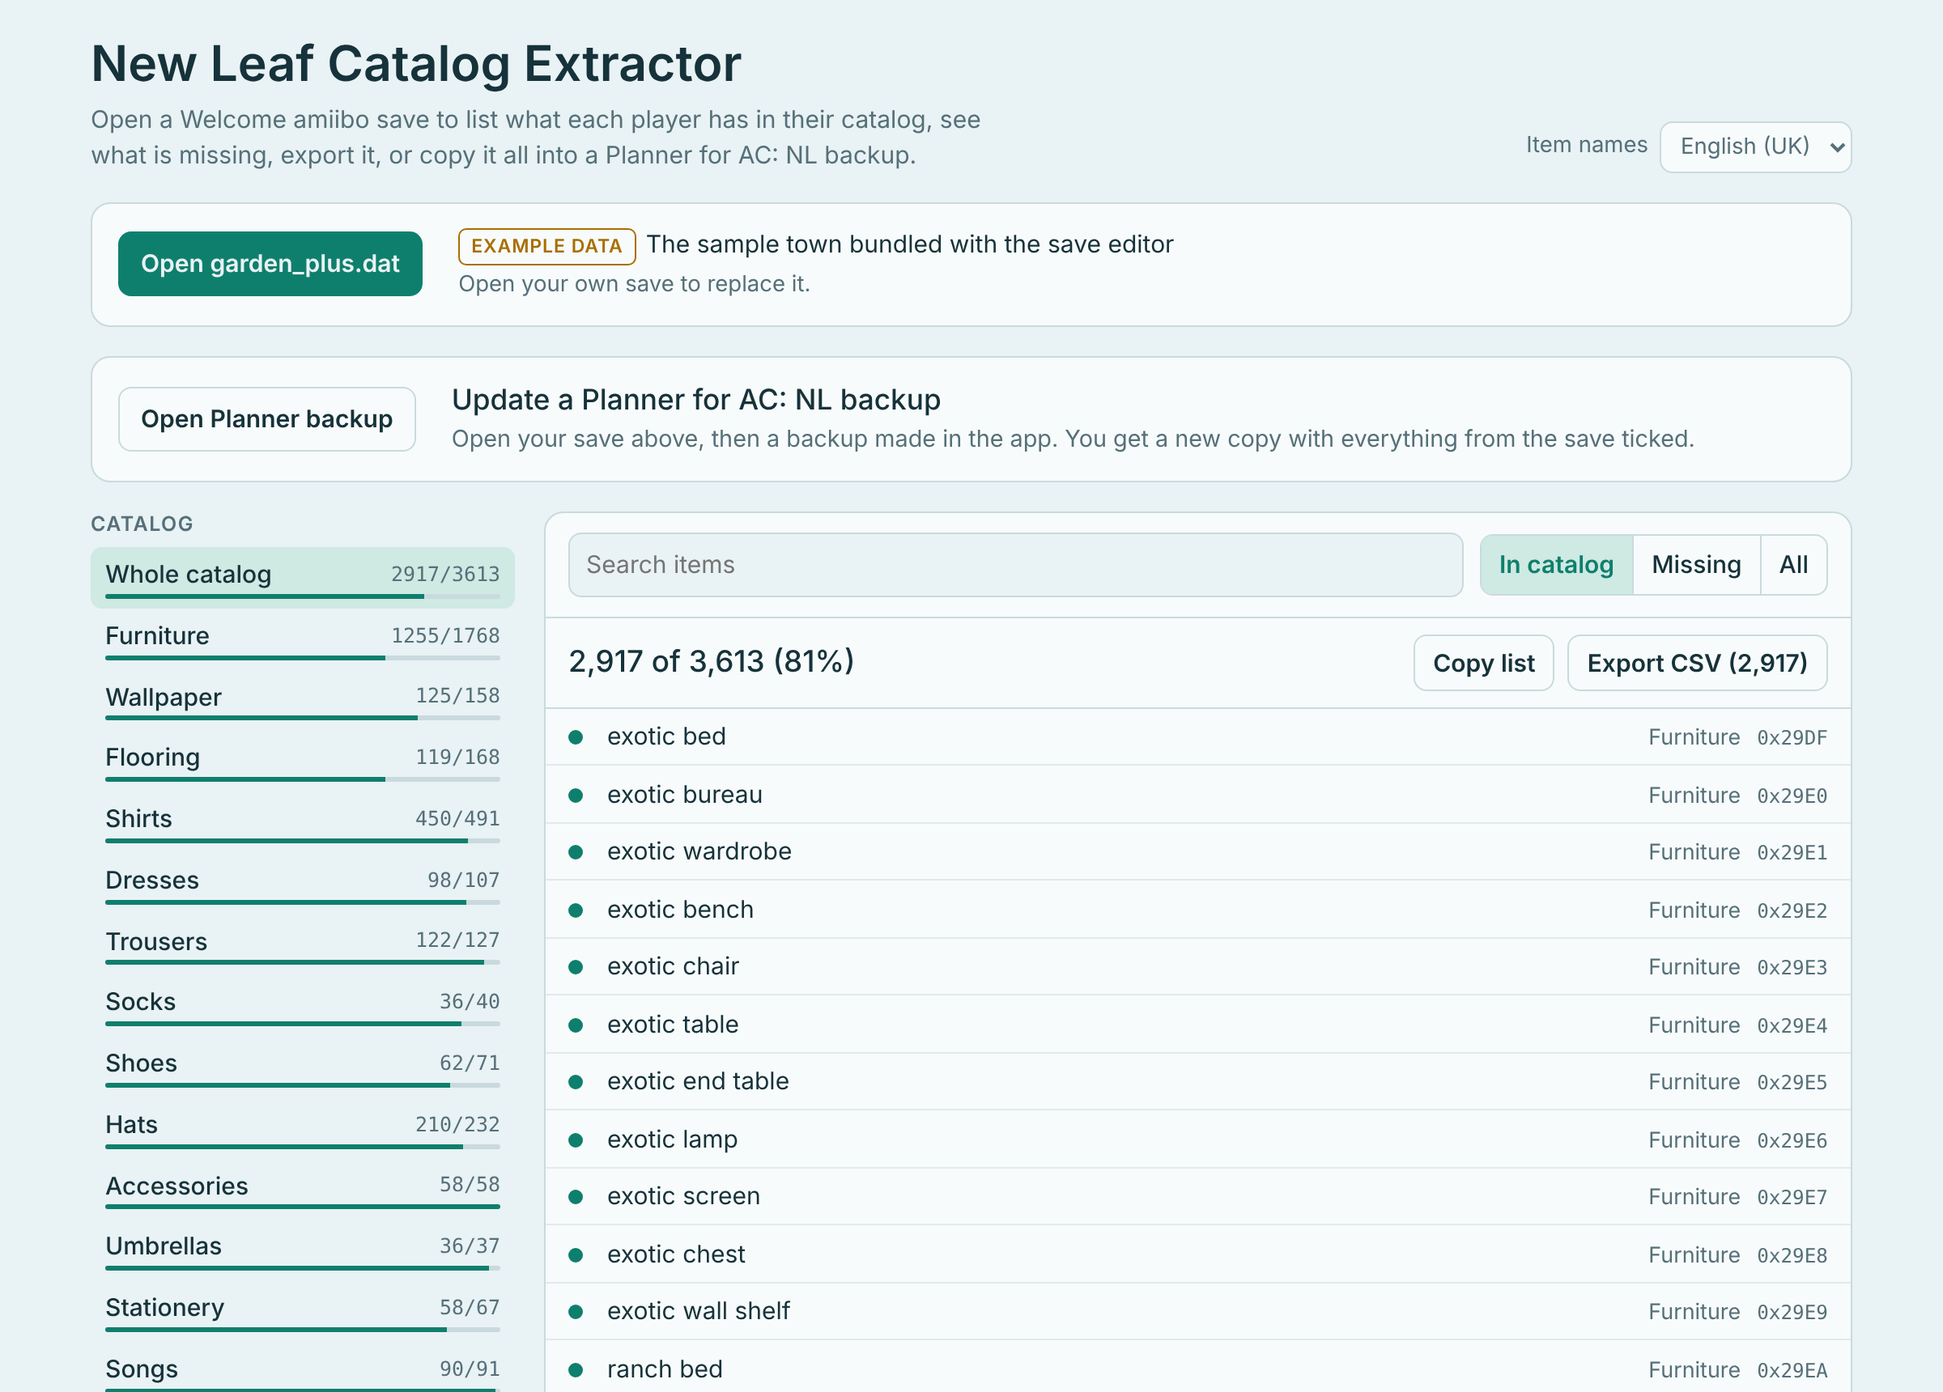
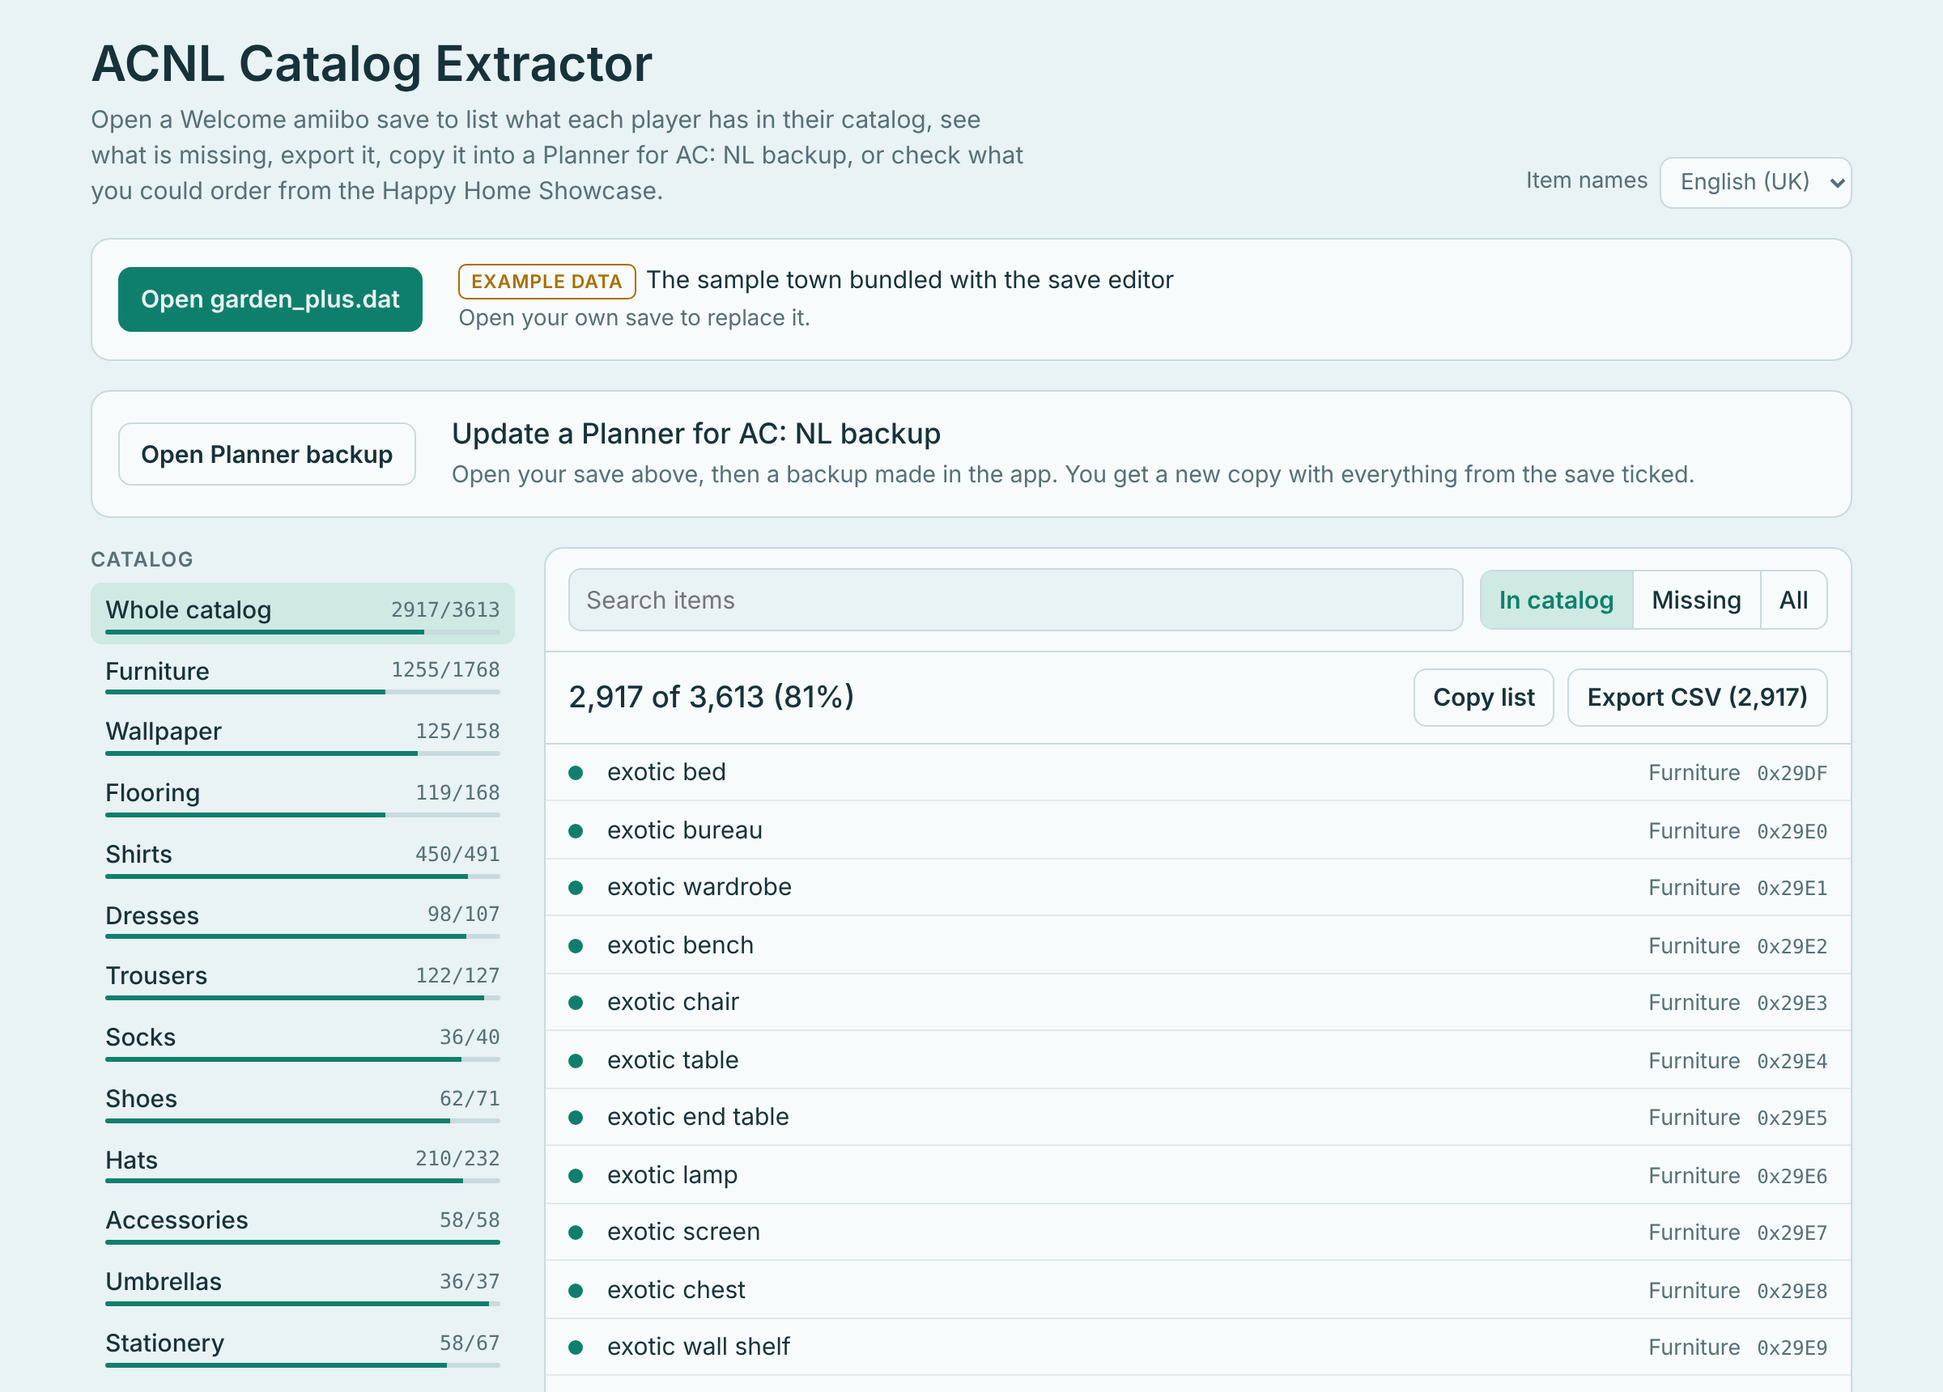
Add files via upload

diff --git a/index.html b/index.html
@@ -70,6 +70,26 @@ button:disabled { opacity: .5; cursor: not-allowed; }
 .report .added { color: var(--accent); font-weight: 600; }
 .profile-pick { color: var(--muted); font-size: .86rem; display: inline-flex; gap: 7px; align-items: center; }
 
+.showcase { background: var(--panel); border: 1px solid var(--line); border-radius: 12px; overflow: hidden; }
+.showcase-top { display: flex; flex-wrap: wrap; gap: 12px 22px; align-items: center; padding: 14px 16px; border-bottom: 1px solid var(--line); }
+.showcase-top .file-btn { flex: none; }
+.showcase-text { flex: 1 1 260px; min-width: 0; }
+.showcase-text h2 { margin-bottom: 2px; }
+.showcase-text p { color: var(--muted); font-size: .9rem; overflow-wrap: anywhere; }
+.showcase .error { padding: 0 16px 12px; margin: 0; }
+.sc-tools { display: flex; flex-wrap: wrap; gap: 10px; align-items: center; padding: 12px 14px; border-bottom: 1px solid var(--line); }
+.sc-tools input[type="search"] { flex: 1 1 170px; min-width: 0; padding: 8px 10px; border-radius: 8px; border: 1px solid var(--line); background: var(--bg); }
+.sc-tools label { color: var(--muted); font-size: .86rem; display: inline-flex; gap: 6px; align-items: center; }
+.sc-row { display: grid; grid-template-columns: 14px minmax(0, 1fr) auto; gap: 2px 10px; align-items: baseline; padding: 7px 14px; border-bottom: 1px solid color-mix(in srgb, var(--line) 50%, transparent); content-visibility: auto; contain-intrinsic-size: auto 52px; }
+.sc-row.have .dot { background: var(--accent); border-color: var(--accent); }
+.sc-row:not(.have) .name { color: var(--fg); }
+.sc-row .houses { grid-column: 2 / -1; color: var(--muted); font-size: .84rem; overflow-wrap: anywhere; }
+.sc-row .tags { display: inline-flex; flex-wrap: wrap; gap: 4px; justify-content: flex-end; }
+.chip { font-size: .72rem; font-weight: 600; padding: 2px 7px; border-radius: 5px; border: 1px solid var(--line); color: var(--muted); white-space: nowrap; }
+.chip.rare { color: var(--gold); border-color: var(--gold); }
+.chip.miss { color: var(--accent); border-color: var(--accent); }
+
+
 .main { display: grid; grid-template-columns: 262px minmax(0, 1fr); gap: 18px; align-items: start; }
 .rail { display: grid; gap: 14px; }
 .rail h2 { font-size: .78rem; letter-spacing: .06em; text-transform: uppercase; color: var(--muted); font-family: var(--body); font-weight: 600; margin-bottom: 4px; }
@@ -125,7 +145,7 @@ label.names { color: var(--muted); font-size: .86rem; display: inline-flex; gap:
   <header>
     <div>
       <h1>ACNL Catalog Extractor</h1>
-      <p class="lede">Open a Welcome amiibo save to list what each player has in their catalog, see what is missing, export it, or copy it all into a Planner for AC: NL backup.</p>
+      <p class="lede">Open a Welcome amiibo save to list what each player has in their catalog, see what is missing, export it, copy it into a Planner for AC: NL backup, or check what you could order from the Happy Home Showcase.</p>
     </div>
     <label class="names" for="nameset">Item names
       <select id="nameset">
@@ -189,6 +209,38 @@ label.names { color: var(--muted); font-size: .86rem; display: inline-flex; gap:
       <div class="rows" id="rows"></div>
     </section>
   </div>
+
+  <section class="showcase" aria-label="Happy Home Showcase">
+    <div class="showcase-top">
+      <input type="file" id="showcaseFile" accept=".dat">
+      <label class="file-btn" for="showcaseFile">Open exhibition.dat</label>
+      <div class="showcase-text">
+        <h2>Happy Home Showcase</h2>
+        <p id="showcaseMsg">Open exhibition.dat from the same backup as your save to see what's on display in the showcase houses, compared with your catalog.</p>
+      </div>
+    </div>
+    <p class="error" id="showcaseError" role="alert" hidden></p>
+    <div id="showcaseBody" hidden>
+      <div class="sc-tools">
+        <input type="search" id="scQ" placeholder="Search showcase items" aria-label="Search showcase items">
+        <div class="seg" role="group" aria-label="Show showcase items">
+          <button type="button" data-sf="missing">Not in catalog</button>
+          <button type="button" data-sf="rare">Rare</button>
+          <button type="button" data-sf="all">All</button>
+        </div>
+        <label for="scOther"><input type="checkbox" id="scOther"> Include non-furniture on display</label>
+      </div>
+      <div class="status">
+        <strong id="scSummary"></strong>
+        <div class="actions">
+          <span id="scActionMsg" role="status"></span>
+          <button type="button" id="scCopy">Copy list</button>
+        </div>
+      </div>
+      <p class="cat-note">You can order up to 5 items a day from showcase houses. Some items, such as the mermaid set and the turkey, can't be ordered, and the save doesn't say which, so check in the game.</p>
+      <div class="rows" id="scRows"></div>
+    </div>
+  </section>
 
   <section class="notes">
     <div>
@@ -406,7 +458,7 @@ async function saveFile(filename, text) {
   setTimeout(() => URL.revokeObjectURL(url), 30000);
 }
 
-const state = { backup: null, backupName: "", profile: 0, museum: {}, town: { villagers: [], pwp: [] }, downloads: null, players: [{ name: DATA.sampleName, field: hexBytes(DATA.sample) }], example: true, fileName: "", player: 0, cat: "catalog", filter: "have", q: "", names: "uk" };
+const state = { showcase: null, scFilter: "missing", scQ: "", scOther: false, backup: null, backupName: "", profile: 0, museum: {}, town: { villagers: [], pwp: [] }, downloads: null, players: [{ name: DATA.sampleName, field: hexBytes(DATA.sample) }], example: true, fileName: "", player: 0, cat: "catalog", filter: "have", q: "", names: "uk" };
 const catalogCats = DATA.cats.filter(c => c.section === "Catalog");
 const itemName = it => (state.names === "uk" && it[2]) || it[1];
 const player = () => state.players[state.player];
@@ -489,6 +541,7 @@ function render() {
   $("catNote").textContent = blurb || ""; $("catNote").hidden = !blurb;
   renderRows(rows);
   renderPlanner();
+  renderShowcase();
 }
 function renderPlanner() {
   const msg = $("plannerMsg"), wrap = $("reportWrap"), btn = $("saveBackup"), err = $("plannerError");
@@ -520,7 +573,101 @@ function renderPlanner() {
   if (!canSave()) msg.textContent += " Saving files isn't available in this view. Export this page as HTML and open that file instead.";
 }
 
+/* Happy Home Showcase (exhibition.dat): 48 house slots after a header. Each slot holds a house laid out
+   like the player's own: 6 rooms of 0x302 bytes, each with a 10x10 floor grid, an 8x8 tabletop layer,
+   then wallpaper and flooring. The owner's name and town sit at +0x1288. */
+const SHOWCASE = { size: 1555984, slots: 48, slot: 0x7dd8, rooms: 0x82, room: 0x302, owner: 0x1288 };
+const ORDER_CATS = new Set(["Furniture", "Wallpaper", "Flooring", "Fossil models"]);
+const showcaseIndex = new Map();
+for (const c of DATA.cats) for (const it of c.items) {
+  const cur = showcaseIndex.get(it[0]) || { it, cat: c.section === "Rare items" ? null : c.label, rare: null };
+  if (c.section === "Rare items") cur.rare = cur.rare || (c.status || DATA.rare[it[0]] || "Distribution ended");
+  else if (!cur.cat) cur.cat = c.label;
+  showcaseIndex.set(it[0], cur);
+}
+for (const it of DATA.pics) if (!showcaseIndex.has(it[0])) showcaseIndex.set(it[0], { it, cat: "Photos", rare: null });
+function parseShowcase(buf) {
+  if (buf.byteLength !== SHOWCASE.size) throw new Error("This doesn't look like exhibition.dat. Expected 1,555,984 bytes, but this file is " + buf.byteLength.toLocaleString("en-GB") + " bytes.");
+  const bytes = new Uint8Array(buf), view = new DataView(buf), dec = new TextDecoder("utf-16le");
+  const head = buf.byteLength - SHOWCASE.slots * SHOWCASE.slot, found = new Map();
+  let houses = 0;
+  const text = o => dec.decode(bytes.subarray(o, o + 18)).split("\0")[0].trim();
+  for (let s = 0; s < SHOWCASE.slots; s++) {
+    const b = head + s * SHOWCASE.slot, ids = new Set();
+    if (bytes.subarray(b, b + 8).every(x => x === 0)) continue; /* empty slot: leftovers from a removed house */
+    for (let r = 0; r < 6; r++) {
+      const o = b + SHOWCASE.rooms + SHOWCASE.room * r;
+      for (let k = 0; k < 164; k++) ids.add(view.getUint16(o + 4 * k, true));
+      ids.add(view.getUint16(o + 656, true)); ids.add(view.getUint16(o + 660, true));
+    }
+    const known = [...ids].filter(id => showcaseIndex.has(id));
+    if (!known.length) continue;
+    houses++;
+    const owner = text(b + SHOWCASE.owner), town = text(b + SHOWCASE.owner + 0x16);
+    const label = owner ? owner + (town ? " (" + town + ")" : "") : "Unnamed house";
+    for (const id of known) (found.get(id) || found.set(id, new Set()).get(id)).add(label);
+  }
+  if (!houses) throw new Error("No showcase houses were found in this file.");
+  return { houses, found };
+}
+function showcaseRows() {
+  const sc = state.showcase, q = state.scQ.trim().toLowerCase(), f = player().field, out = [];
+  for (const [id, where] of sc.found) {
+    const info = showcaseIndex.get(id), orderable = ORDER_CATS.has(info.cat);
+    if (!orderable && !state.scOther) continue;
+    const owned = has(f, id), name = itemName(info.it);
+    if (state.scFilter === "missing" && owned) continue;
+    if (state.scFilter === "rare" && !info.rare) continue;
+    if (q && !name.toLowerCase().includes(q)) continue;
+    out.push({ id, name, cat: info.cat || "Other", rare: info.rare, owned, houses: [...where].sort() });
+  }
+  return out.sort((a, b) => (!!b.rare - !!a.rare) || a.owned - b.owned || a.name.localeCompare(b.name));
+}
+function renderShowcase() {
+  const sc = state.showcase;
+  $("showcaseBody").hidden = !sc;
+  if (!sc) return;
+  const rows = showcaseRows(), missing = rows.filter(r => !r.owned).length;
+  $("showcaseMsg").textContent = sc.houses + " houses in " + sc.fileName + ", compared with " + player().name + "'s catalog" + (state.example ? " (example data: open your own save above)." : ".");
+  document.querySelectorAll("[data-sf]").forEach(b => b.setAttribute("aria-pressed", String(b.dataset.sf === state.scFilter)));
+  $("scSummary").textContent = rows.length.toLocaleString("en-GB") + (rows.length === 1 ? " item" : " items") + (state.scFilter === "all" ? ", " + missing.toLocaleString("en-GB") + " not in catalog" : "");
+  $("scCopy").disabled = !rows.length; $("scActionMsg").textContent = "";
+  const frag = document.createDocumentFragment();
+  for (const r of rows) {
+    const row = document.createElement("div"); row.className = "sc-row" + (r.owned ? " have" : "");
+    const dot = document.createElement("span"); dot.className = "dot"; dot.title = r.owned ? "In catalog" : "Not in catalog";
+    const name = document.createElement("span"); name.className = "name"; name.textContent = r.name;
+    const tags = document.createElement("span"); tags.className = "tags";
+    const add = (text, cls) => { const c = document.createElement("span"); c.className = "chip" + (cls ? " " + cls : ""); c.textContent = text; tags.append(c); };
+    if (r.rare) add(r.rare, "rare");
+    if (!r.owned) add("Not in catalog", "miss");
+    add(r.cat);
+    const houses = document.createElement("span"); houses.className = "houses"; houses.textContent = "In " + r.houses.join(", ");
+    row.append(dot, name, tags, houses); frag.append(row);
+  }
+  $("scRows").replaceChildren(frag); $("scRows").scrollTop = 0;
+  if (!rows.length) { const e = document.createElement("p"); e.className = "empty"; e.textContent = state.scQ ? "No showcase items match that search." : "Nothing here."; $("scRows").append(e); }
+}
+async function openShowcase(file) {
+  $("showcaseError").hidden = true;
+  try {
+    const sc = parseShowcase(await file.arrayBuffer());
+    state.showcase = Object.assign(sc, { fileName: file.name });
+    renderShowcase();
+  } catch (err) { $("showcaseError").textContent = err.message; $("showcaseError").hidden = false; }
+}
+$("showcaseFile").addEventListener("change", e => { if (e.target.files[0]) openShowcase(e.target.files[0]); e.target.value = ""; });
+$("scQ").addEventListener("input", e => { state.scQ = e.target.value; renderShowcase(); });
+$("scOther").addEventListener("change", e => { state.scOther = e.target.checked; renderShowcase(); });
+document.querySelectorAll("[data-sf]").forEach(b => b.addEventListener("click", () => { state.scFilter = b.dataset.sf; renderShowcase(); }));
+$("scCopy").addEventListener("click", async () => {
+  const text = showcaseRows().map(r => r.name + " - " + r.houses.join(", ")).join("\n");
+  try { await navigator.clipboard.writeText(text); $("scActionMsg").textContent = "Copied"; }
+  catch { $("scActionMsg").textContent = "Copying isn't available here"; }
+});
+
 async function openFile(file) {
+  if (file.size === SHOWCASE.size) return openShowcase(file);
   $("error").hidden = true;
   try {
     const buf = await file.arrayBuffer();

diff --git a/README.md b/README.md
@@ -1,7 +1,3 @@
-# acnl-catalog-extractor
-Read your Animal Crossing: New Leaf save in your browser to see your full catalog, what’s missing and what can no longer be obtained, then export it to a Planner for AC: NL backup.
-
-
 <div align="center">
 
 # 🍃 ACNL Catalog Extractor
@@ -28,8 +24,16 @@ Open your `garden_plus.dat` and the page reads each player's catalog straight fr
 - 📖 **Browse your whole catalog** by category: furniture, wallpaper, flooring, clothing, songs, gyroids, fossils, stationery and more
 - 🔍 **Find what's missing**, with search and "In catalog / Missing / All" filters
 - 💎 **Check rare items**: distributed (SpotPass and Nintendo Zone), Club Tortimer, and Japan-only RV items, with where the obtainable ones can still be bought
+- 🏠 **Search the Happy Home Showcase**: see everything on display in your showcase houses, who owns each house, and what you could order that isn't in your catalog yet
 - 📋 **Copy or export** any list as a CSV
 - 🗓 **Fill in Planner for AC: NL**: update a backup from the app so it ticks everything your save shows
+
+## 🏠 Happy Home Showcase
+
+Open `exhibition.dat`, which sits next to `garden_plus.dat` in your backup, and the tool lists every piece of furniture, wallpaper and flooring on display in your showcase houses. Each item shows which houses have it, whether it's already in your catalog, and whether it's one of the rare items above, so you can spot distributed items like the zodiac furniture that you can still order from a showcase house.
+
+> [!NOTE]
+> You can order up to 5 items a day from the showcase. Some items can't be ordered at all, such as the mermaid set and the turkey, and the save doesn't record which ones, so check in the game.
 
 ## 🗓 Exporting to Planner for AC: NL
 
@@ -64,17 +68,18 @@ The save doesn't record these in a way the tool can read:
 
 ## 🚀 How to use it
 
-1. **Get your save.** On a modded 3DS, back up New Leaf with [Checkpoint](https://github.com/BernardoGiordano/Checkpoint) or JKSV, then copy `garden_plus.dat` from the backup folder on your SD card. There is a good tutorial for doing this [here](https://www.marcrobledo.com/acnl-editor/help.html#Howto).
+1. **Get your save.** On a modded 3DS, back up New Leaf with [Checkpoint](https://github.com/BernardoGiordano/Checkpoint) or JKSV, then copy `garden_plus.dat` from the backup folder on your SD card.
 2. **Open the tool** and choose **Open garden_plus.dat**. Pick a player if your town has more than one.
-3. *(Optional)* **Planner for AC: NL:** export a backup from the app, choose **Open Planner backup**, check the summary, then **Download updated backup**.
-4. **Restore** the downloaded file in the app.
+3. *(Optional)* **Happy Home Showcase:** choose **Open exhibition.dat** from the same backup folder.
+4. *(Optional)* **Planner for AC: NL:** export a backup from the app, choose **Open Planner backup**, check the summary, then **Download updated backup**.
+5. **Restore** the downloaded file in the app.
 
 > [!IMPORTANT]
 > Keep your original Planner backup somewhere safe before restoring, so you can go back if anything looks wrong.
 
 ## 🔒 Privacy
 
-Everything happens in your browser. Your save and backup files are **never uploaded**, and your save is **never modified**. The tool only reads it.
+Everything happens in your browser. Your save, showcase and backup files are **never uploaded**, and your save is **never modified**. The tool only reads it.
 
 ## ❓ FAQ
 
@@ -97,6 +102,12 @@ If the catalog was ever filled with a save editor, the save marks every item as 
 </details>
 
 <details>
+<summary><b>Where do the showcase houses come from?</b></summary>
+
+They're the houses the game has saved from StreetPass and the Happy Home Network. Some are placeholder houses named "Someone (Anytown)". Empty showcase slots are skipped.
+</details>
+
+<details>
 <summary><b>Something isn't ticked that should be</b></summary>
 
 Please [open an issue](../../issues) with the item name and the list it's in.
@@ -113,11 +124,11 @@ Please [open an issue](../../issues) with the item name and the list it's in.
 
 ## 🙏 Credits
 
-- **[Planner for AC: NL](https://csvensson.app/planner-acnl/)** by C Svensson Apps: the companion app this tool exports to. Go and get it if you don't have it! This tool isn't made by or affiliated with its developer.
 - **[ACNL Save Editor](https://github.com/marcrobledo/acnl-editor)** by Marc Robledo: item names, IDs and save layout (MIT licence)
 - **[Nookipedia](https://nookipedia.com)**: distributed and unobtainable item lists, RV sellers, badge and emotion names
 - **[ACNL_ID_Lists](https://github.com/RedShyGuy/ACNL_ID_Lists)** by RedShyGuy: emotion IDs
 - **[Vapecord ACNL Plugin](https://github.com/RedShyGuy/Vapecord-ACNL-Plugin)**: item category ranges and the catalog bitfield layout
+- **[Planner for AC: NL](https://csvensson.app/planner-acnl/)** by C Svensson Apps: the companion app this tool exports to. Go and get it if you don't have it! This tool isn't made by or affiliated with its developer.
 
 ---
 
